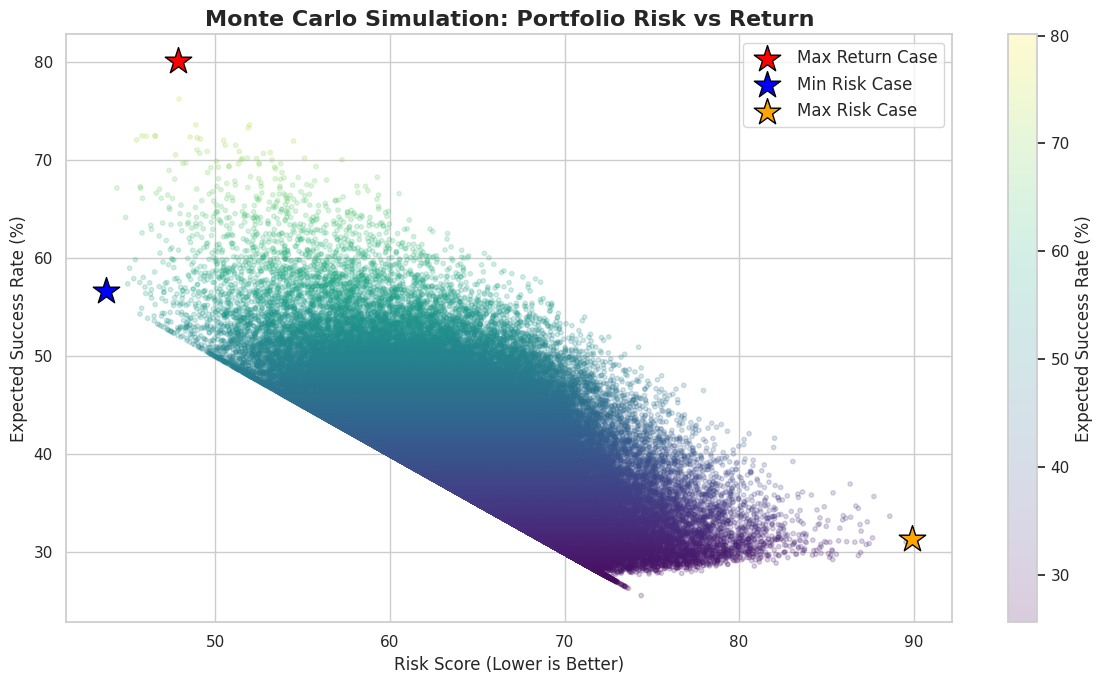
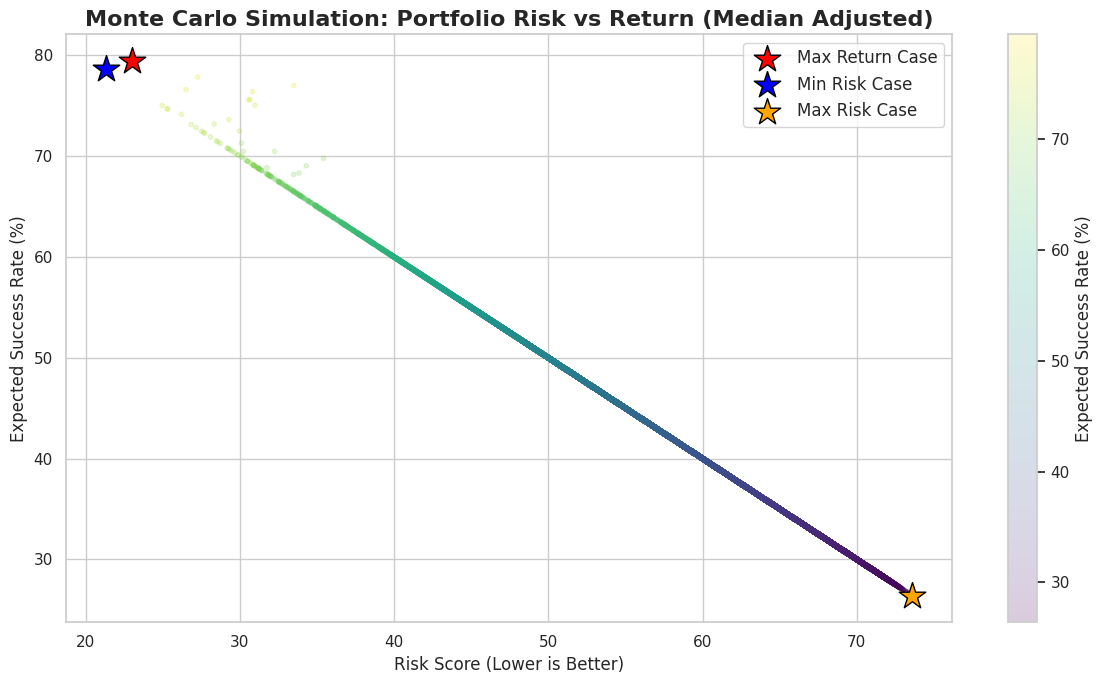
데이터값 수정

diff --git a/README.md b/README.md
@@ -42,12 +42,15 @@
 | 파일 | `big_startup_secsees_dataset.csv` |
 | 처리 엔진 | **Apache Spark (PySpark)** — 분산 전처리·집계 |
 | 주요 필드 | `funding_total_usd`, `country_code`, `category_list`, `status` |
-| 파생 변수 | `is_closed`, `is_survived`, `is_success` |
-| 시뮬레이션 | **몬테카를로 10만 회** (numpy) — 포트폴리오 배분 시나리오 탐색 |
+| 파생 변수 | `is_closed`, `is_survived`, `is_success`, `funding_log`(로그 변환) |
+| 분석 기법 | 로그 변환 상관분석, 투자금 10분위(Decile) 추이, **몬테카를로 10만 회**(numpy) |
 | 시각화 | Matplotlib · Seaborn (위험–수익 산점도, 자본 배분 누적 막대) |
 
 ### 전처리 핵심 (에러 원천 차단)
 `funding_total_usd`는 문자열에 통화 기호·콤마가 섞여 있어, **① 숫자/소수점만 추출 → ② 정규식으로 완전한 숫자 형태인지 재검증 → ③ 유효할 때만 `Double` 캐스팅, 아니면 `Null` 처리 → ④ 결측 행 제거** 순으로 정제했습니다. Spark의 ANSI 모드를 비활성화하여 형변환 실패를 안전하게 처리했습니다.
+
+### 롱테일 왜곡 보정
+투자금은 소수 대형 거래로 분포가 극단적으로 치우쳐 있어, 평균이 왜곡됩니다. 이를 막기 위해 **① 상관분석에는 로그 변환(`log1p`)**, **② 카테고리별 필요 자본에는 평균 대신 중앙값(median)** 을 적용해 분석의 신뢰도를 높였습니다.
 
 ---
 
@@ -94,44 +97,58 @@
 > 홍보(PR)·큐레이션 웹·검색 등 경쟁이 치열한 분야가 폐업률이 높고, 소비자 가전·부동산·교육이 안정적입니다.
 > ⚠️ 폐업률 최저 목록에는 `Biotechnology|Hea...`(n=110, 0.0%) 같은 **멀티태그 소수 표본**도 섞여 있어, 이는 아래 §8 한계에서 다루는 아티팩트와 동일한 현상입니다.
 
-### 5-3. 투자금액과 생존율의 상관관계
-`funding_total_usd`와 `is_survived` 간 피어슨 상관계수 = **0.0128** (거의 0)
+### 5-3. 투자금과 성과의 관계 (상관분석 + 10분위 추이)
 
-> 💡 **인사이트:** 투자 유치 금액과 생존(미폐업) 여부 사이에 **사실상 상관관계가 없습니다(0.0128).** 즉 "돈을 많이 받은 스타트업이 더 오래 살아남는다"는 통념은 이 데이터에서 성립하지 않으며, **생존은 투자 규모보다 산업·시장 등 다른 요인에 좌우됨**을 시사합니다. 이는 단순히 자본을 많이 배분하는 전략의 한계를 보여주는 근거입니다.
+투자금은 소수 대형 거래로 분포가 심하게 치우쳐(롱테일) 있어, 로그 변환(`log1p`) 후 상관계수를 산출했습니다.
+
+| 관계 | 상관계수 |
+|------|:---:|
+| 로그 투자금 ↔ 단순 생존(미폐업) | **0.0555** (거의 없음) |
+| 로그 투자금 ↔ 성공 엑시트(인수/IPO) | **0.2727** (약~중간 양(+)) |
+
+이 차이를 **투자금 10분위(Decile) 구간별 추이**로 분해하면 명확해집니다.
+
+| 투자금 구간 | 생존율 | 성공률(Exit) |
+|:---:|:---:|:---:|
+| 1분위 (최저) | 87.4% | 1.3% |
+| 5분위 | 91.7% | 7.7% |
+| 10분위 (최고) | 93.6% | **29.8%** |
+
+> 💡 **핵심 인사이트:** 투자금이 늘어도 **단순 생존율은 87→94%로 거의 변하지 않지만**, **성공 엑시트율은 1.3%→29.8%로 약 23배 폭증**합니다. 즉 **"돈은 스타트업을 *살려주지는* 못해도, *크게 성공(인수·IPO)*시키는 것과는 강하게 연결된다."** 투자자는 "생존"이 아니라 "성공 엑시트"를 목표로 자본을 배분해야 함을 시사합니다.
 
 ### 5-4. 카테고리별 포트폴리오 지표 (표본 100개 이상)
-성공률·평균 필요 자본을 기준으로 시뮬레이션 입력 카테고리 5개를 선정했습니다.
+성공률과 필요 자본을 기준으로 시뮬레이션 입력 카테고리 5개를 선정했습니다. 필요 자본은 롱테일 왜곡을 피하기 위해 **평균이 아닌 중앙값(median)** 을 사용했습니다.
 
-| 카테고리 | 성공률 | 평균 필요 자본(M$) |
+| 카테고리 | 성공률 | 필요 자본 중앙값(M$) |
 |----------|--------|--------------------|
-| Biotech & Health | 89.09% | 117.48 |
-| Semiconductors | 30.25% | 64.28 |
-| Web Hosting | 29.66% | 31.77 |
-| Public Relations | 28.31% | 14.80 |
-| Security | 25.13% | 18.78 |
+| Biotech & Health | 89.09% | 89.47 |
+| Semiconductors | 30.26% | 13.15 |
+| Web Hosting | 29.66% | 10.98 |
+| Public Relations | 28.32% | 4.75 |
+| Security | 25.14% | 6.57 |
 
-### 5-5. 몬테카를로 포트폴리오 시뮬레이션
-- **총 예산 500M\$**, **10만 개** 무작위 배분 시나리오 생성
-- 각 시나리오의 기대 성공률·리스크 점수·투자 가능 기업 수 산출
+### 5-5. 몬테카를로 포트폴리오 시뮬레이션 (롱테일 보정 · 재현성 고정)
+- **총 예산 500M\$**, **10만 개** 무작위 배분 시나리오 생성 (`np.random.seed(42)`로 재현성 확보)
+- 필요 자본은 §5-4의 **중앙값**을 사용해 현실적인 투자 가능 기업 수를 산출
 - 리스크 점수 = `(100 − 기대성공률) + 집중 페널티`(투자 기업 수가 20개 미만일 때 가중)
 
 ![몬테카를로 위험-수익 산점도](montecarlo_frontier.png)
 
-*▲ 10만 개 포트폴리오의 위험–수익 분포. 좌상단(낮은 리스크·높은 성공률)일수록 효율적이며, 세 별표는 최대 수익(빨강)·최저 리스크(파랑)·최고 리스크(주황) 케이스.*
+*▲ 10만 개 포트폴리오의 위험–수익 분포(중앙값 보정). 좌상단(낮은 리스크·높은 성공률)일수록 효율적이며, 세 별표는 최대 수익(빨강)·최저 리스크(파랑)·최고 리스크(주황) 케이스.*
 
 ![시나리오별 자본 배분](capital_allocation.png)
 
-*▲ 세 시나리오의 산업별 자본 배분 비중. 최대 수익은 Biotech 85% 집중, 최저 리스크는 Biotech·PR 분산.*
+*▲ 세 시나리오의 산업별 자본 배분 비중. 최대 수익·최저 리스크 모두 Biotech 80%대 집중, 최고 리스크는 Security 집중.*
 
 | 시나리오 | 예상 성공률 | 리스크 점수 | 투자 기업 수 | 주요 배분 |
 |----------|:---:|:---:|:---:|------|
-| 🔥 최대 수익 (Max Return) | 80.12% | 47.86 | 약 6.0개 | Biotech 85.1% · Semi 5.7% · Web 5.3% |
-| 🛡️ 최저 리스크 (Min Risk) | 56.67% | **43.76** | 약 19.8개 | Biotech 46.7% · **PR 52.0%** |
-| 💣 최고 리스크 (Max Risk) | 31.34% | 89.91 | 약 9.4개 | Semiconductors 88.5% |
+| 🔥 최대 수익 (Max Return) | 79.44% | 23.02 | 약 18.8개 | Biotech 84.1% · PR 10.8% |
+| 🛡️ 최저 리스크 (Min Risk) | 78.65% | **21.35** | 약 20.5개 | Biotech 83.0% · PR 12.1% |
+| 💣 최고 리스크 (Max Risk) | 26.41% | 73.59 | 약 68.0개 | Security 74.2% · Semi 19.7% |
 
-> 💡 **인사이트:** 흥미롭게도 **최저 리스크 배분(리스크 43.76)이 최대 수익 배분(47.86)보다 리스크가 더 낮으면서**, 투자 기업 수가 6개 → 약 20개로 크게 늘어 분산이 잘 됩니다. 즉 성공률을 22%p 낮추는 대신(80%→57%) **하방 위험과 집중도를 모두 개선**하는 트레이드오프가 명확히 드러납니다.
+> 💡 **인사이트:** 중앙값 보정으로 투자 가능 기업 수가 현실화되자(약 19~20개), 최대 수익·최저 리스크 케이스가 모두 **성공률 79%대·리스크 21~23**으로 수렴하며 Biotech 80%대 집중을 가리킵니다. 반대로 Biotech를 배제한 최고 리스크 케이스는 성공률이 26%로 급락합니다.
 >
-> ⚠️ **단, 해석에 주의:** 최대 수익 케이스의 80% 성공률은 자본의 **85%를 Biotech에 몰아넣은** 결과인데, 이 Biotech 성공률은 §8에서 설명한 **89% 아티팩트**에 기반합니다. 따라서 "80% 성공"은 과장된 수치이며, **실무적으로는 분산된 최저 리스크 배분이 더 신뢰할 만한 권고안**입니다.
+> ⚠️ **해석에 반드시 주의:** 이 "Biotech 집중" 결론은 자본의 80%대를 Biotech에 배분한 결과인데, 그 성공률(89%)은 §8에서 설명한 **소수 표본 아티팩트**입니다. 따라서 시뮬레이션이 가리키는 "Biotech 몰빵"은 **입력 데이터의 한계가 그대로 반영된 것**이며, 신뢰할 수 있는 단독 카테고리 값(Biotech 16.1%)으로 재산출하면 결론이 달라질 수 있습니다. 발표 시 이 점을 명시해야 합니다.
 
 ---
 